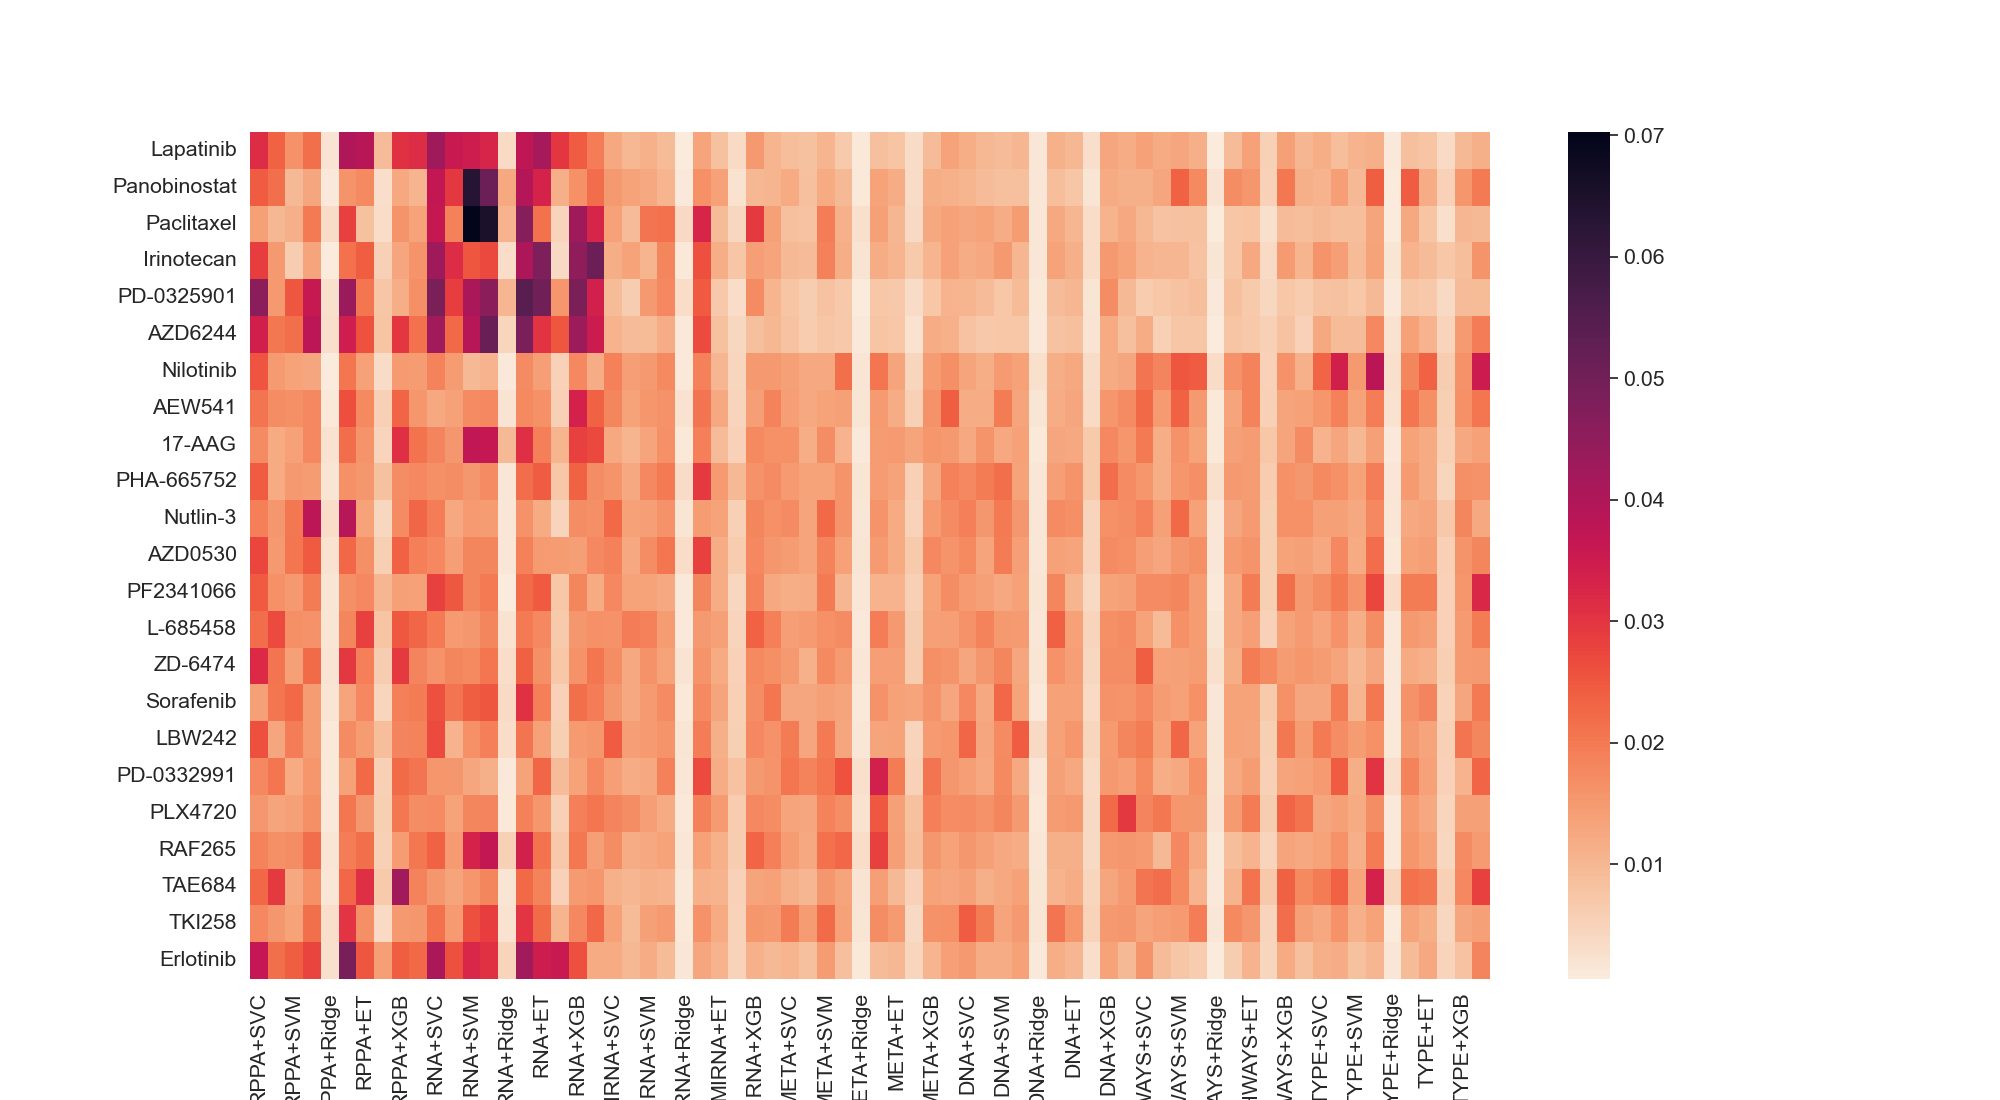
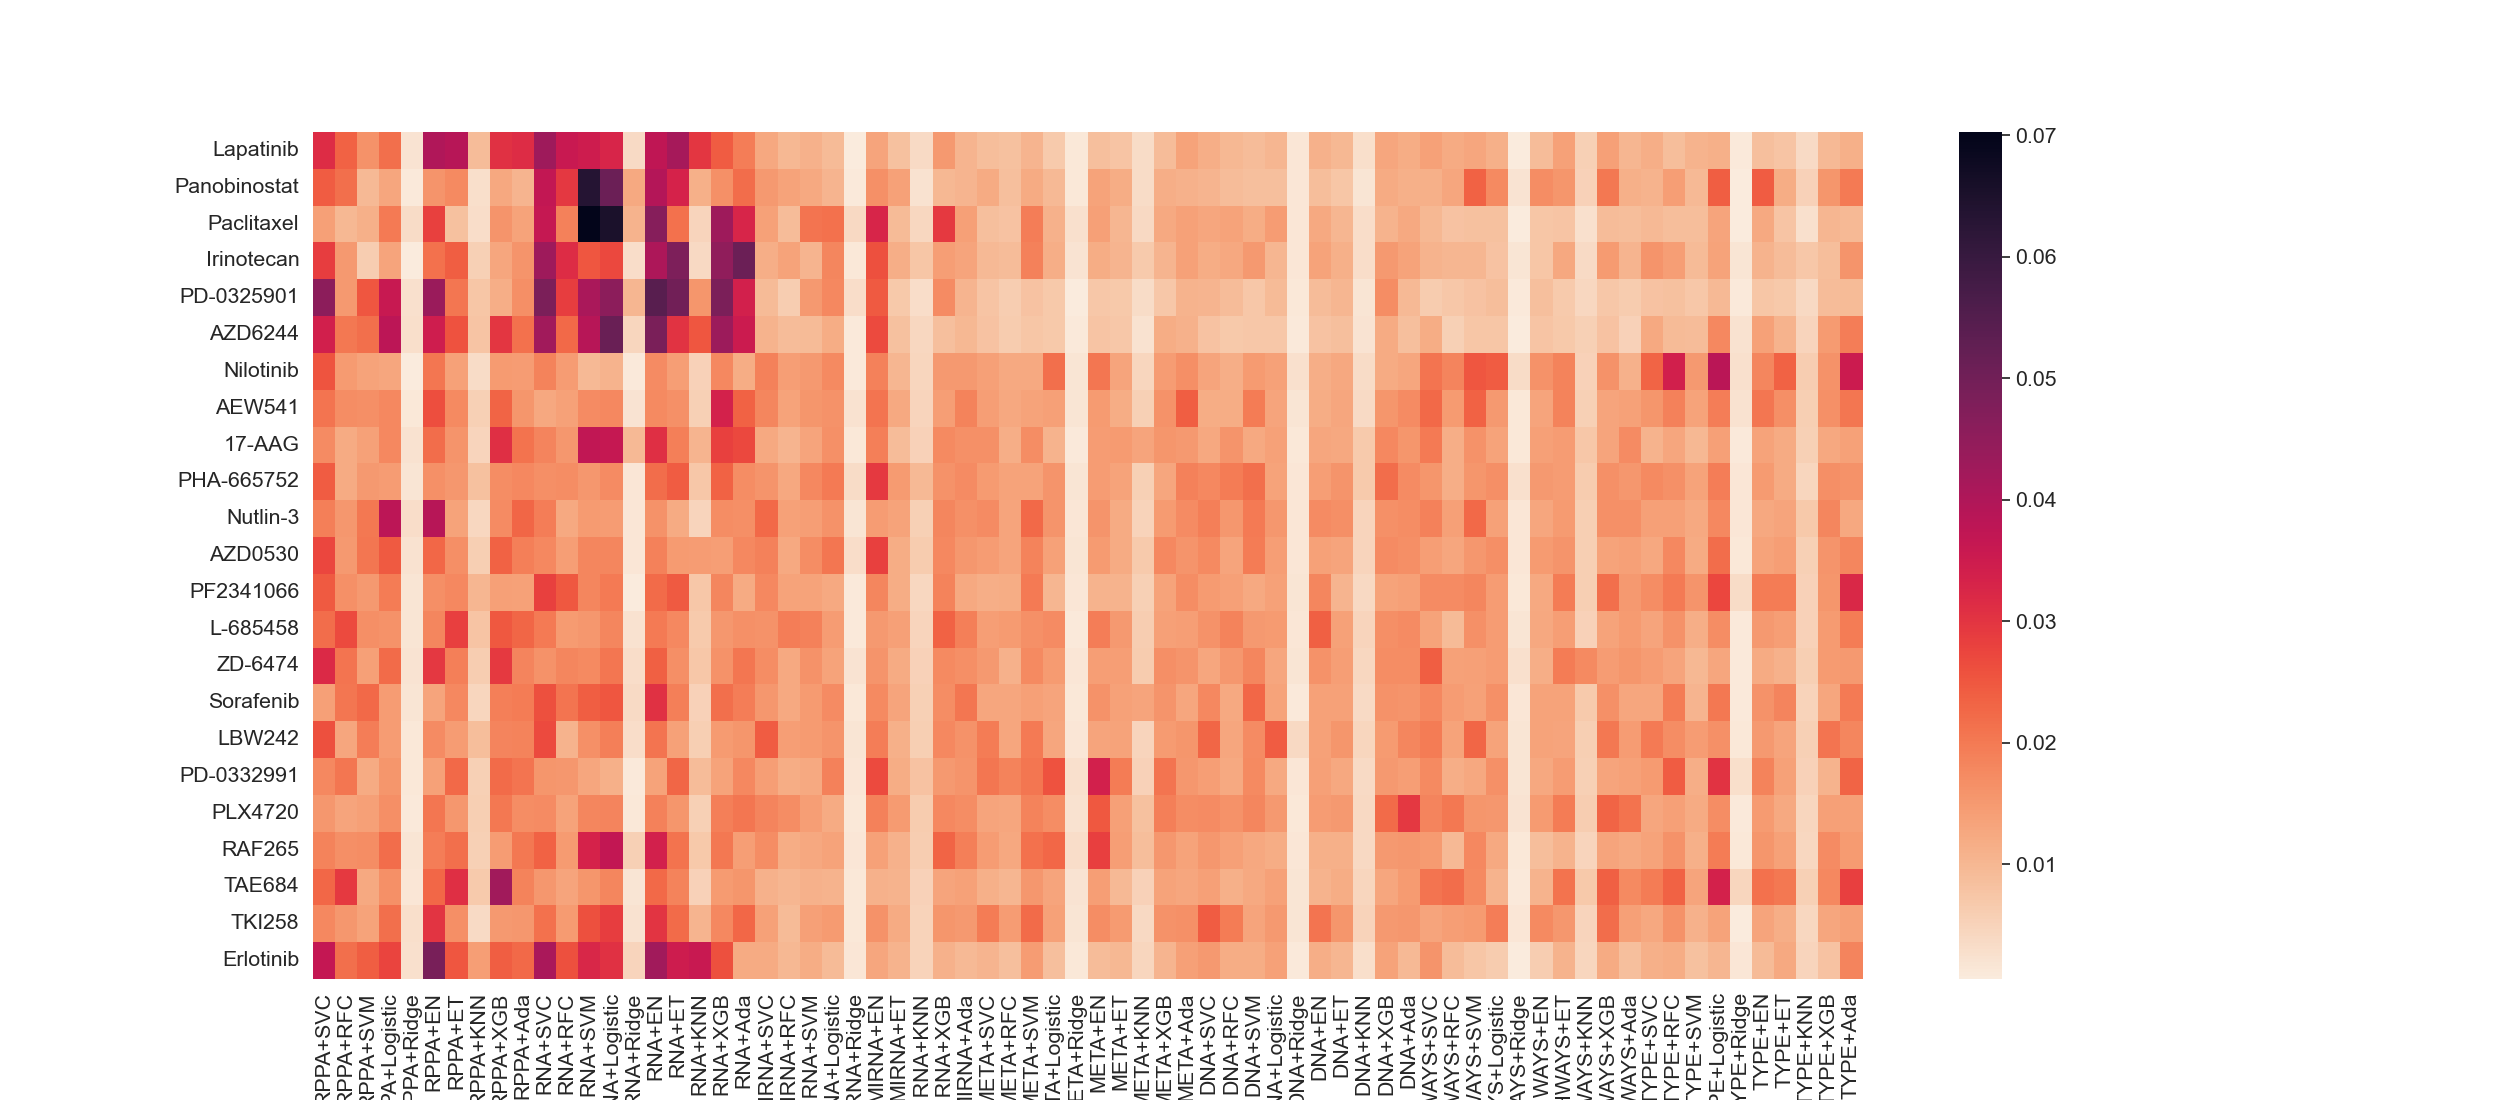
update

diff --git a/celltype-analysis.py b/celltype-analysis.py
@@ -95,6 +95,7 @@ df_all = df_all.dropna(how='all')
 df_prec = df_prec.dropna(how='all')
 df_recall = df_recall.dropna(how='all')
 df_ba = df_ba.dropna(how='all')
+df_ba = df_ba.dropna(axis=1, how='all')
 
 df_pos.to_csv('FINAL_celltype_results_pos.csv')
 df_neg.to_csv('FINAL_celltype_results_neg.csv')
@@ -105,7 +106,7 @@ df_ba.to_csv('FINAL_celltype_results_bal-accuracy.csv')
 
 df_ba = df_ba.apply(pd.to_numeric, errors='coerce')
 
-fig, ax = plt.subplots(figsize=(25, 15))
+fig, ax = plt.subplots(figsize=(30, 15))
 cmap = sns.cm.rocket_r
 sns.set(font_scale=1.4)
 sns.heatmap(df_ba, cmap=cmap, annot=True, fmt='.2f', linewidths=.1, ax=ax, annot_kws={
@@ -197,34 +198,34 @@ res_sd.index = indexnames
 res_fi.to_csv('FINAL_RFC_contributions_table.csv')
 res_sd.to_csv('FINAL_RFC_contributions_sd_table.csv')
 
-fig, ax = plt.subplots(figsize=(20, 11))
+fig, ax = plt.subplots(figsize=(25, 11))
 cmap = sns.cm.rocket_r
 sns.heatmap(res_fi, cmap = cmap, annot=False, fmt='.2f', ax=ax)
 plt.savefig('FINAL_RFC_contributions')
 plt.close()
 
-sns.clustermap(res_fi, cmap=cmap, figsize=(20, 11))
+sns.clustermap(res_fi, cmap=cmap, xticklabels=True, figsize=(25, 11))
 #sns.color_palette("rocket", as_cmap=True)
 plt.savefig('FINAL_RFC_contributions_cluster')
 plt.close()
+#
+# fig, axs = plt.subplots(nrows=len(indexnames), figsize=(10, 50), sharex='all')
+#
+# for i, (mean_row, std_row) in enumerate(zip(res_fi.iterrows(), res_sd.iterrows())):
+#     index = mean_row[0]
+#     means = mean_row[1]
+#     stds = std_row[1]
+#
+#     axs[i].bar(means.index, means, yerr=stds, capsize=5)
+#     # axs[i].set_xlabel(colnames)
+#     axs[i].set_xticklabels(axs[i].get_xticklabels(), rotation=90)
+#     axs[i].set_ylabel(f'{index}')
+#
+# fig.tight_layout()
+# fig.savefig("FINAL_contributions_bar_plots.png")
+# plt.close()
 
-fig, axs = plt.subplots(nrows=len(indexnames), figsize=(10, 50), sharex='all')
-
-for i, (mean_row, std_row) in enumerate(zip(res_fi.iterrows(), res_sd.iterrows())):
-    index = mean_row[0]
-    means = mean_row[1]
-    stds = std_row[1]
-
-    axs[i].bar(means.index, means, yerr=stds, capsize=5)
-    axs[i].set_xlabel(colnames)
-    axs[i].set_xticklabels(axs[i].get_xticklabels(), rotation=90)
-    axs[i].set_ylabel(f'{index}')
-
-fig.tight_layout()
-fig.savefig("FINAL_contributions_bar_plots.png")
-plt.close()
-
-fig, axs = plt.subplots(nrows=23, figsize=(15, 50), sharex=True, gridspec_kw={"bottom": 0.2})
+fig, axs = plt.subplots(nrows=23, figsize=(20, 50), sharex=True, sharey=True, gridspec_kw={"bottom": 0.2})
 
 for i, (mean_row, std_row) in enumerate(zip(res_fi.iterrows(), res_sd.iterrows())):
     index = mean_row[0]
@@ -286,53 +287,62 @@ omics_list = ['RPPA', 'RNA', 'MIRNA', 'META', 'DNA', 'PATHWAYS', 'TYPE']
 algos_list = ['SVC', 'RFC', 'Logistic', 'EN', 'ET', 'XGB', 'Ada']
 omics_biglist = dataset.omic
 
+all_col_meds = pd.DataFrame(index=dataset.dataframe.columns)
+
 for file in file_list:
     df = pd.read_csv(file)
     drugname = file.split('_')[1]
     for omic in omics_list:
-        fig, axs = plt.subplots(nrows=8, figsize=(8, 30))
+        # fig, axs = plt.subplots(nrows=8, figsize=(8, 90))
         these_features = omics_biglist[omics_biglist == omic].index
         idxs = [x for x in df.columns if x in these_features]
         this_df = df.loc[:, idxs]
         this_df = this_df.iloc[:-1, :]
-        col_means = this_df.mean()
-        sorted_cols = col_means.sort_values()
+        # col_means = this_df.mean()
+        col_meds = this_df.median()
+        # all_col_meds = pd.concat([all_col_meds, col_meds], axis=1)
+        # sorted_cols = col_means.sort_values()
+        sorted_cols = col_meds.sort_values()
         sorted_cols = sorted_cols.index[:30]
         sorted_df = this_df[sorted_cols].dropna()
-        ax = axs[0]
+        # ax = axs[0]
         colnames = sorted_df.columns
         colnames = [x.split('_ENS')[0].split('_Cautio')[0].split('_nmiR')[0].split('/isoval')[0].split('/tauro')[0] for x in colnames]
         sorted_df.columns = colnames
-        sns.boxplot(data=sorted_df + 1, ax=ax, color='white')
+        # sns.boxplot(data=sorted_df + 1, ax=ax, color='white', orient='h')
         # sns.set_context('paper')
-        for line in ax.lines:
-            if line.get_linestyle() == '-':
-                line.set_color('black')
-        ax.set_title('All Algorithms')
+        # for line in ax.lines:
+        #     if line.get_linestyle() == '-':
+        #         line.set_color('black')
+        # ax.set_title('All Algorithms')
         # ax.set_xticklabels(ax.get_xticks(), rotation=90)
         # ax.set_ylabel('rank')
 
         for i, algo in enumerate(algos_list):
             idxs = list(range(i, this_df.shape[0], 7))
             algo_df = this_df.iloc[idxs, :]
-            col_means = algo_df.mean()
-            sorted_cols = col_means.sort_values()
+            col_meds = algo_df.median()
+            all_col_meds = pd.concat([all_col_meds, col_meds], axis=1)
+            sorted_cols = col_meds.sort_values()
             sorted_cols = sorted_cols.index[:30]
             sorted_df = algo_df[sorted_cols].dropna()
-            ax = axs[i+1]
+            # ax = axs[i+1]
             colnames = sorted_df.columns
             colnames = [x.split('_ENS')[0].split('_Cautio')[0].split('_nmiR')[0].split('/isoval')[0].split('/tauro')[0] for x in colnames]
             sorted_df.columns = colnames
-            sns.boxplot(data=sorted_df + 1, ax=ax, color='white')
-
+            # sns.boxplot(data=sorted_df + 1, ax=ax, color='white', orient='h')
+            # sorted_df.to_csv(f"FINAL_FI_med_{drugname}_{omic}_{algo}")
             # sns.set_context('paper')
-            for line in ax.lines:
-                if line.get_linestyle() == '-':
-                    line.set_color('black')
-            ax.set_title(algo)
+            # for line in ax.lines:
+            #     if line.get_linestyle() == '-':
+            #         line.set_color('black')
+            # ax.set_title(algo)
             # ax.set_xticklabels(ax.get_xticks(), rotation=90)
             # ax.set_ylabel('rank')
 
-        plt.suptitle(f'Distribution of features ranks: {drugname} / {omic}')
-        plt.tight_layout()
-        plt.savefig(f'FINAL_FI_{drugname}_{omic}.tif')
+        # plt.suptitle(f'Distribution of features ranks: {drugname} / {omic}')
+        # plt.tight_layout()
+        # plt.savefig(f'FINAL_FI_med_{drugname}_{omic}.tif', format='tif', dpi=300)
+        # plt.close()
+
+all_col_meds.to_csv("all_col_meds.csv")
